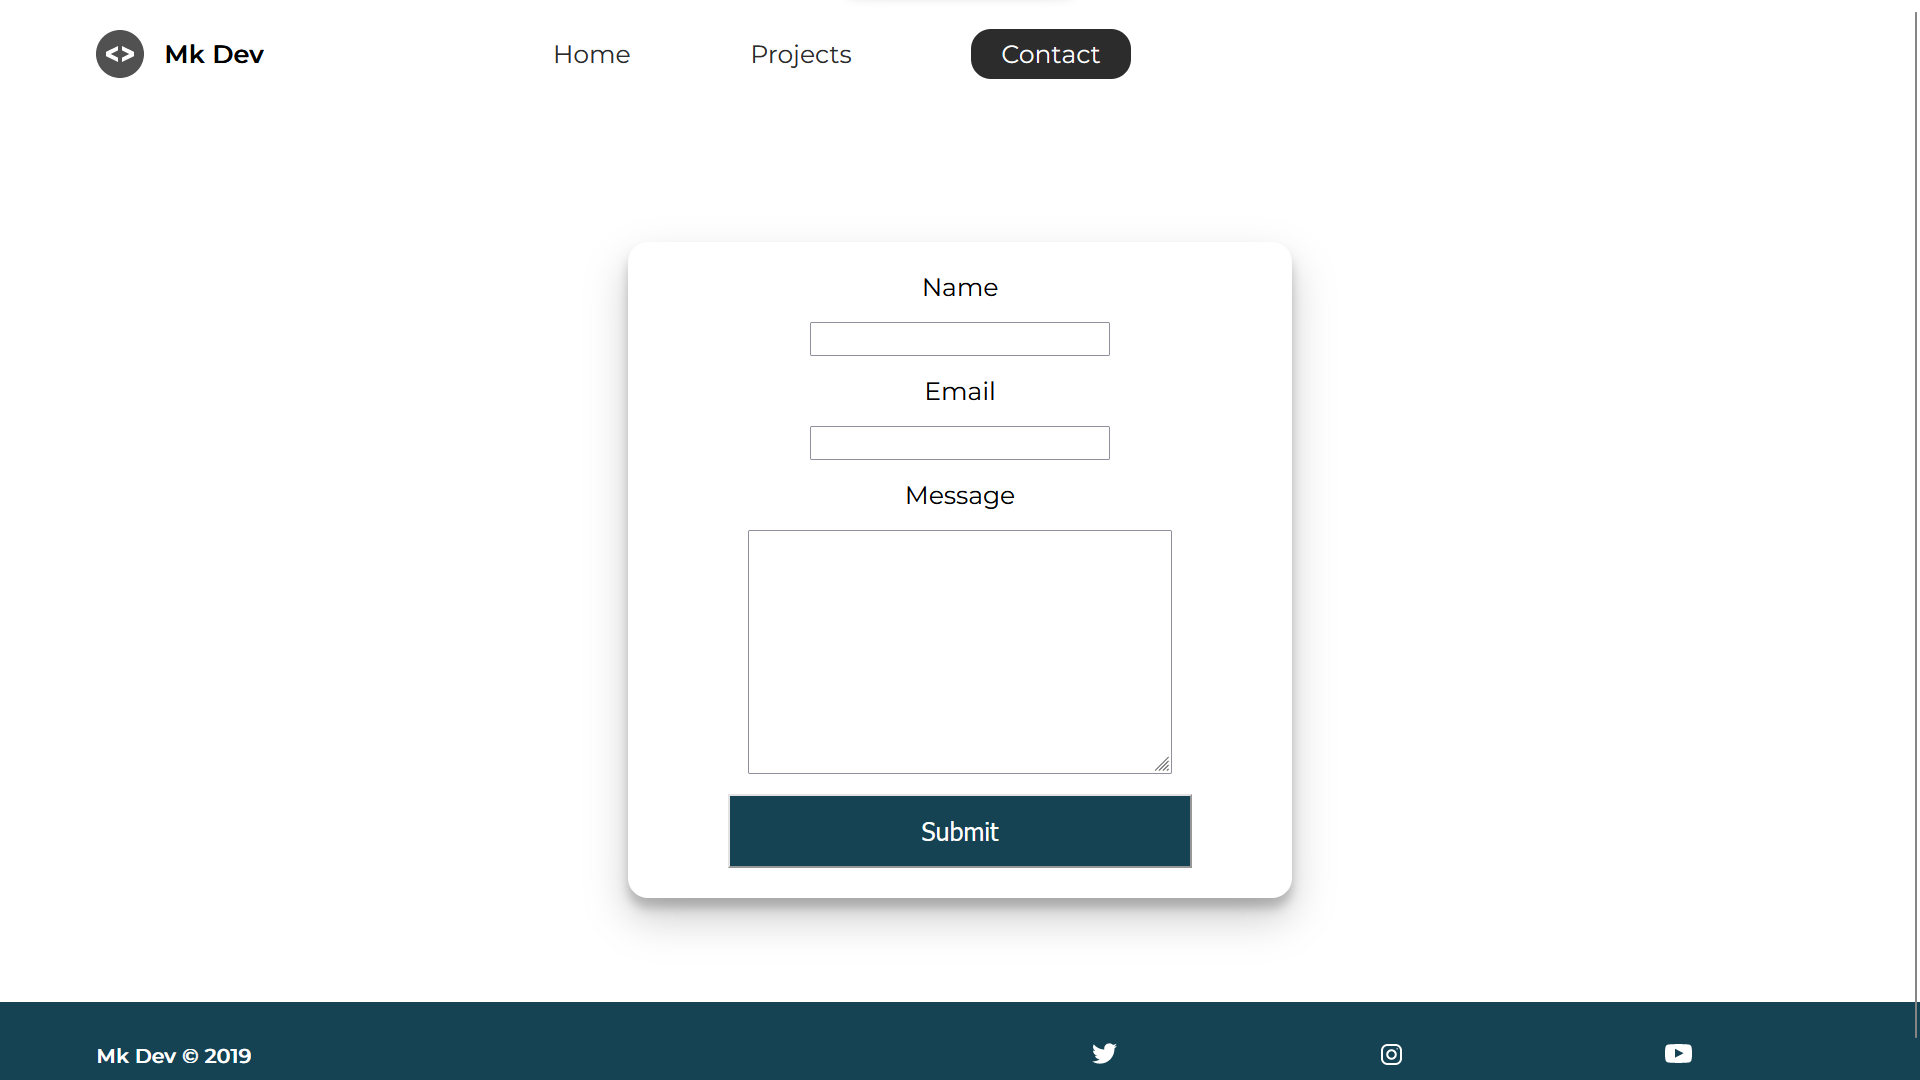
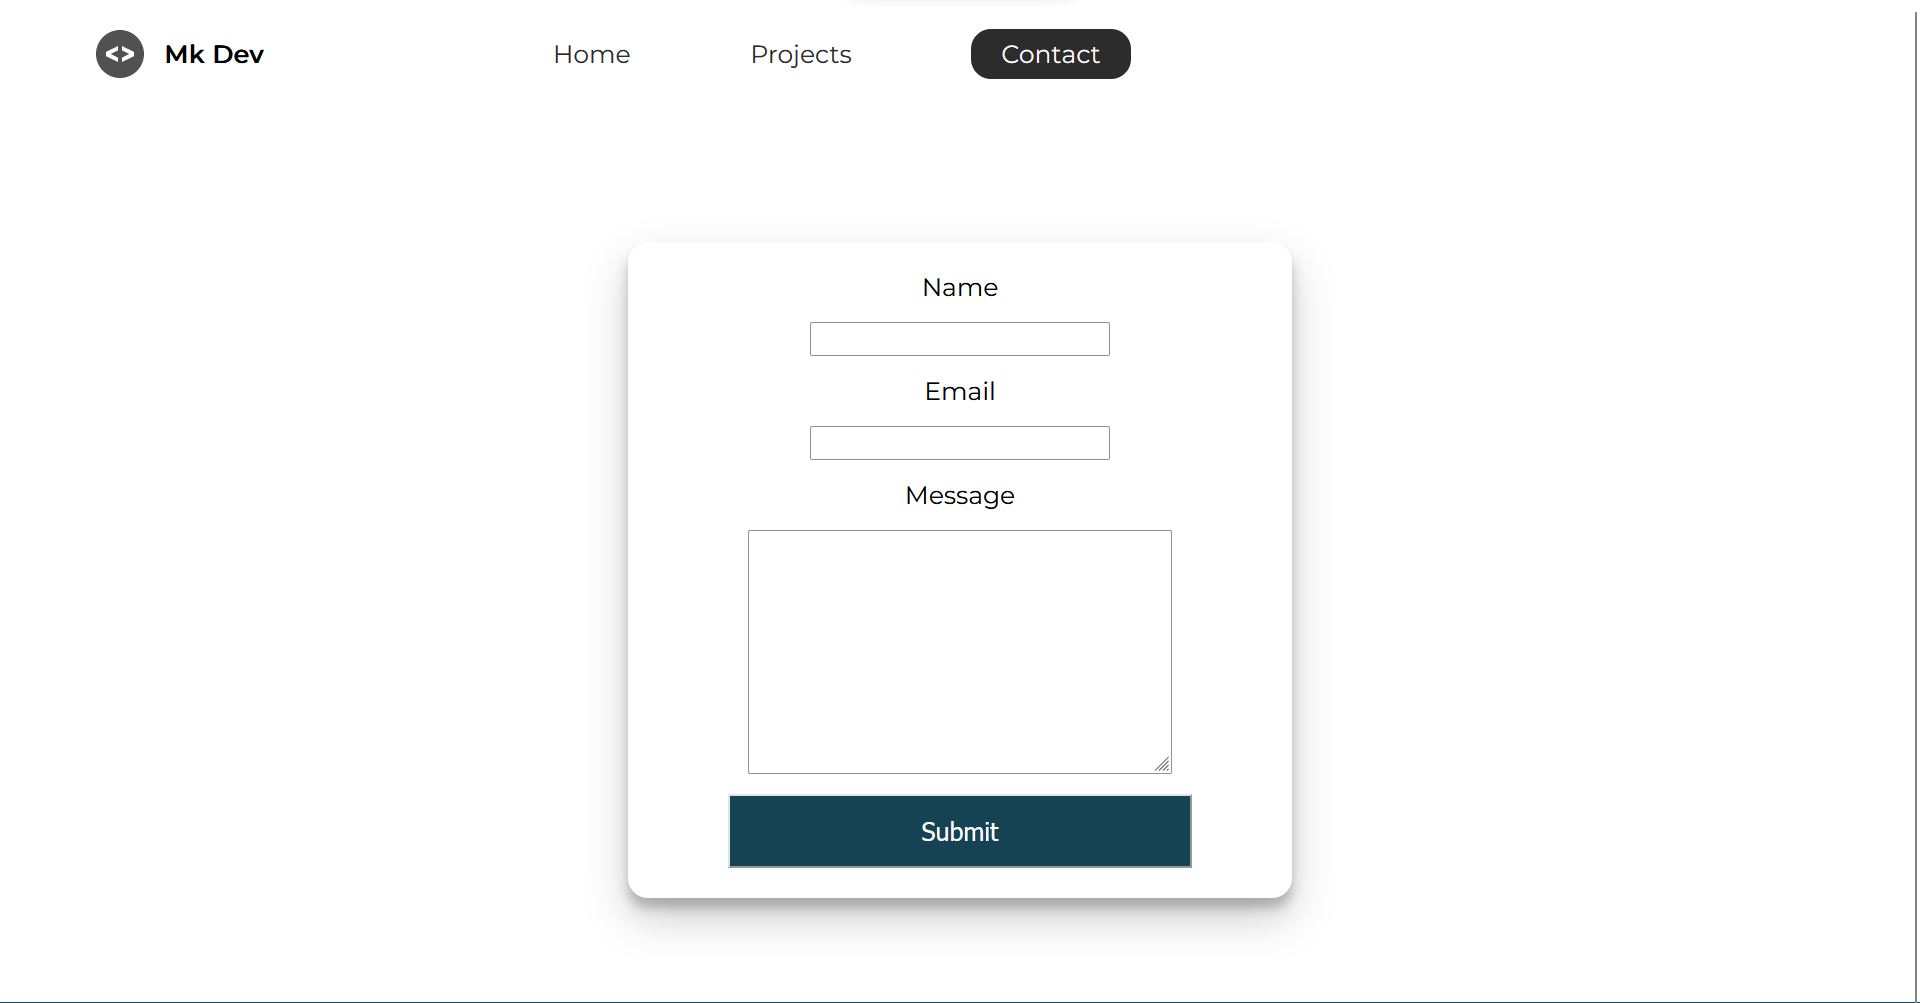
updated contact pic

diff --git a/contact/index.html b/contact/index.html
@@ -42,7 +42,7 @@
       </form>
     </section>
     <footer>
-      <h4>Mk Dev &copy; 2019</h4>
+      <h4>Mk Dev &copy; 2023</h4>
       <ul>
         <li>
           <a href="#"><img src="/icons/twitter 1.svg" alt="twitter-social"/></a>
